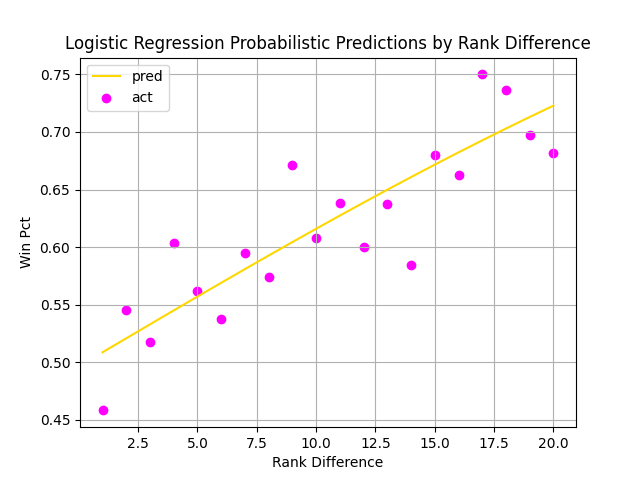
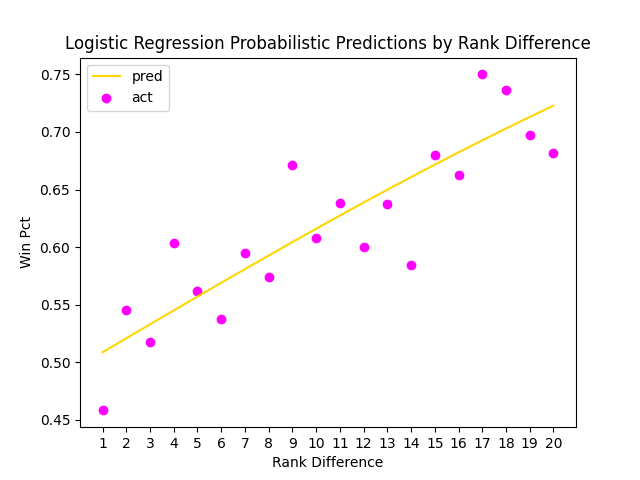
reupload

diff --git a/sports-reference/src/logistic_regression_by_rankdiff.py b/sports-reference/src/logistic_regression_by_rankdiff.py
@@ -1,6 +1,7 @@
 import pandas as pd
 from sklearn.linear_model import LogisticRegression
 import matplotlib.pyplot as plt
+import numpy as np
 
 df = pd.read_csv("sports-reference/raw_data/matchup_selector.csv")
 
@@ -61,7 +62,7 @@ plt.scatter(table4["rankdiff"].to_list(),table4["act"].to_list(),color="magenta"
 plt.xlabel("Rank Difference")
 plt.ylabel("Win Pct")
 plt.title("Logistic Regression Probabilistic Predictions by Rank Difference")
+plt.xticks(np.arange(1, 21), [str(i) for i in range(1, 21)])
 plt.legend()
-plt.grid(True)
 plt.show()
 plt.savefig("sports-reference/processed_data/table4.png")
